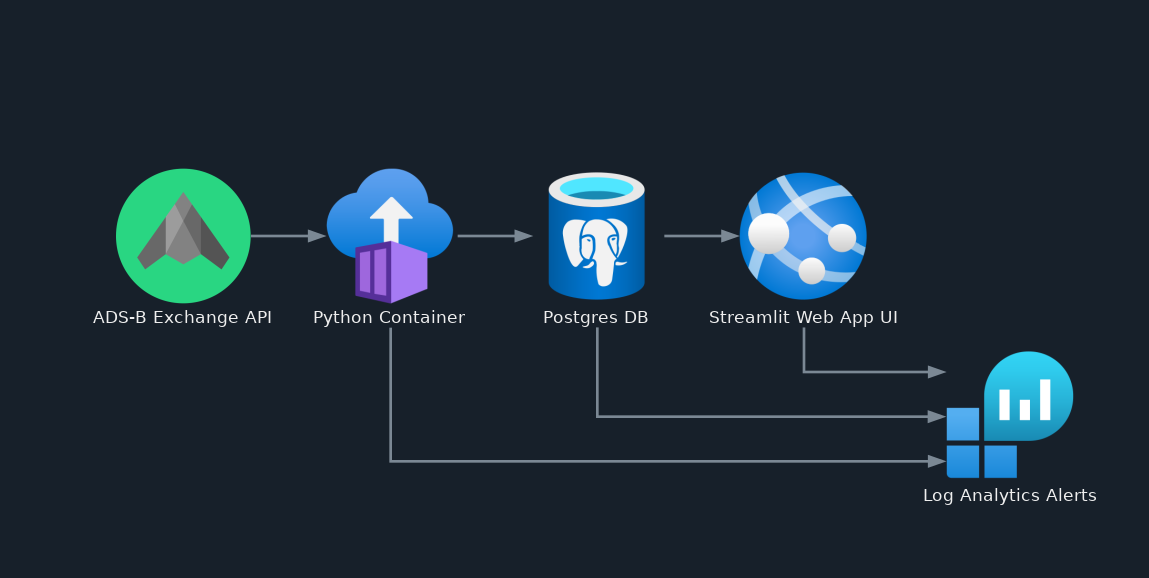
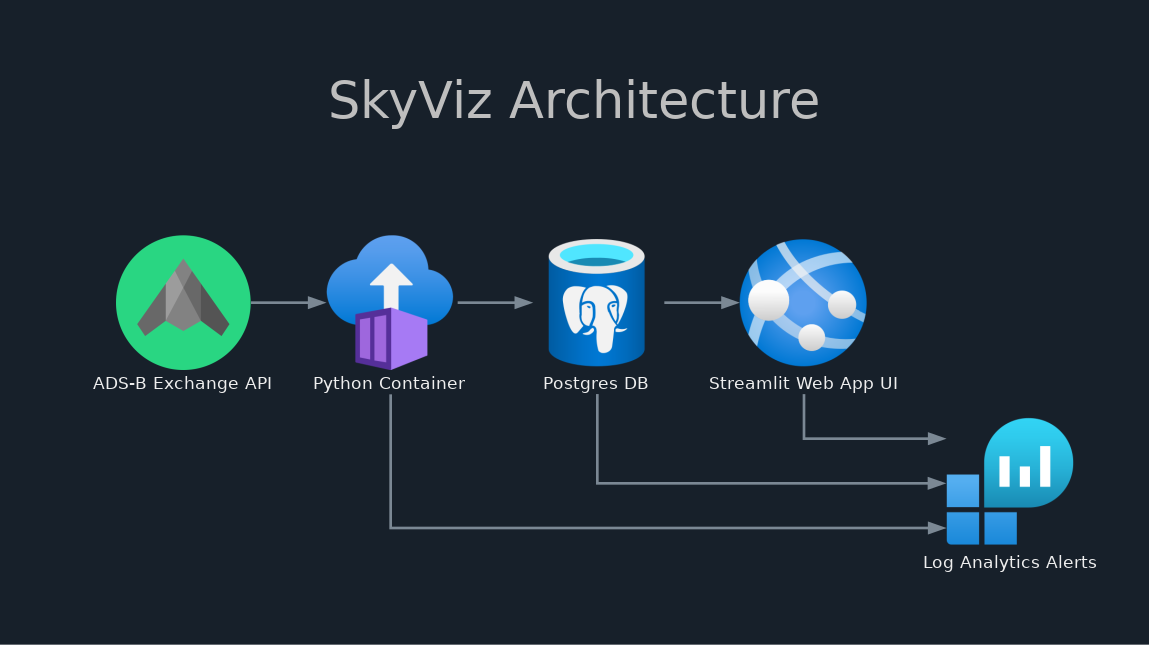
description

diff --git a/scripts/architecture_diagram.py b/scripts/architecture_diagram.py
@@ -43,8 +43,8 @@ edge_attr = {
     "penwidth": "2.0",
 }
 
-with Diagram(filename=output_filepath, graph_attr=graph_attr, node_attr=node_attr,
-             edge_attr=edge_attr, show=False):
+with Diagram("SkyViz Architecture", filename=output_filepath, graph_attr=graph_attr,
+             node_attr=node_attr, edge_attr=edge_attr, show=False):
     with Cluster("Data Flow", graph_attr=cluster_attr):
         adsb_api = Custom("ADS-B Exchange API", adsb_exchange_logo)
         container_app = ContainerInstances("Python Container")

diff --git a/README.md b/README.md
@@ -39,7 +39,7 @@
   <summary>Table of Contents</summary>
   <ol>
     <li>
-      <a href="#project-architecture">Project Architecture</a>
+      <a href="#project-overview">Project Overview</a>
     </li>
     <li>
       <a href="#getting-started">Getting Started</a>
@@ -61,8 +61,14 @@
 </details>
 
 
-<!-- PROJECT ARCHITECTURE -->
-## Project Architecture
+<!-- PROJECT OVERVIEW -->
+## Project Overview
+
+The ADS-B Exchange network collects telemetry from plane transponders and publishes the current state of the airspace through their APIs. This project stores and transforms the data to make it available for historical analysis in a Streamlit web app.
+
+Resources are containerized using Docker and hosted in Azure. CI/CD is enabled through Pulumi and Github Actions. Database versioning and migrations are handled by SQLAlchemy ORM and Alembic. Environment configuration is managed using Hydra.
+
+$~$
 
 <div align="center">
   <img src="src/skyviz/static/architecture_diagram.png" alt="Architecture Diagram">
